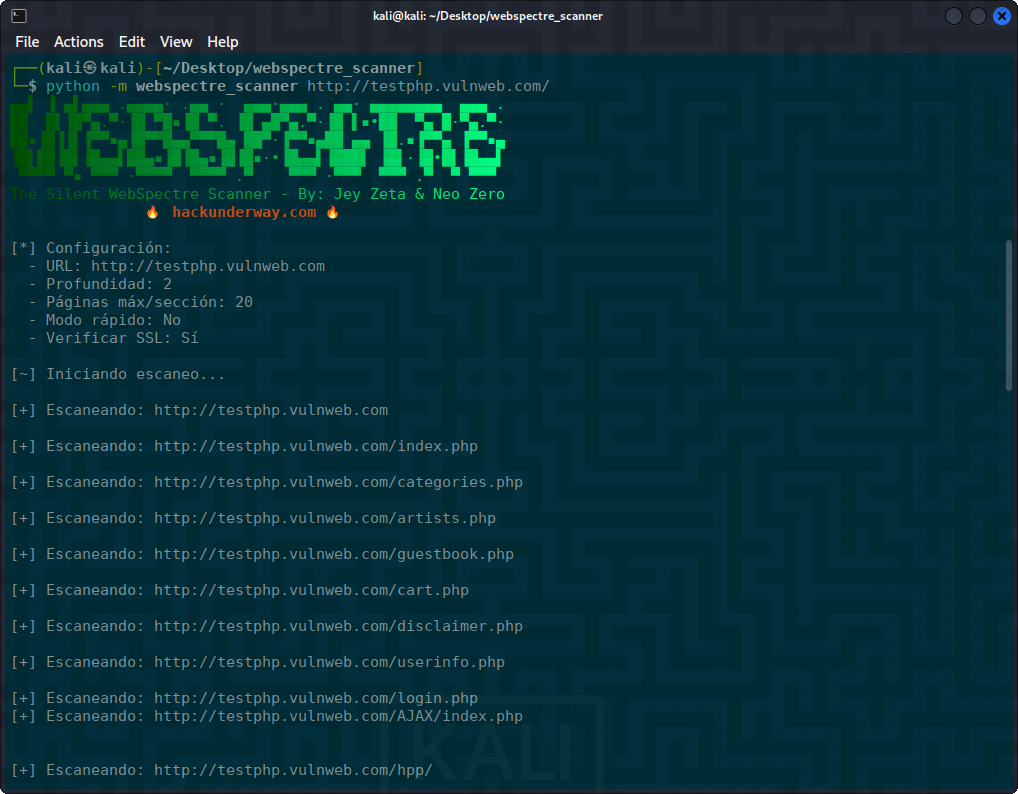
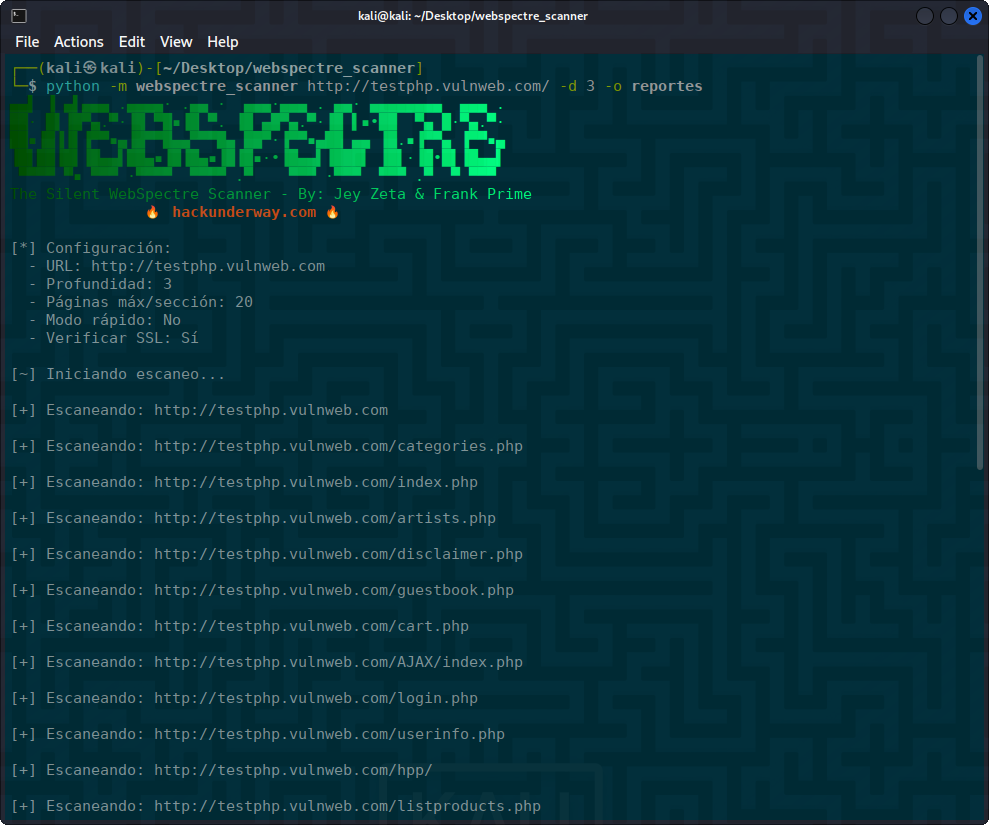
Actualización de imagen WebSpectre y mejoras en scanner.py

diff --git a/webspectre_scanner/scanner.py b/webspectre_scanner/scanner.py
@@ -102,7 +102,7 @@ class WebSpectreScanner:
         for line in banner_lines:
             print_shaded_text(line, start_color, end_color)
             
-        credits_text = "The Silent WebSpectre Scanner - By: Jey Zeta & Neo Zero"
+        credits_text = "The Silent WebSpectre Scanner - By: Jey Zeta & Frank Prime"
         print_shaded_text(credits_text, start_color, end_color)
         
         from rich.console import Console
